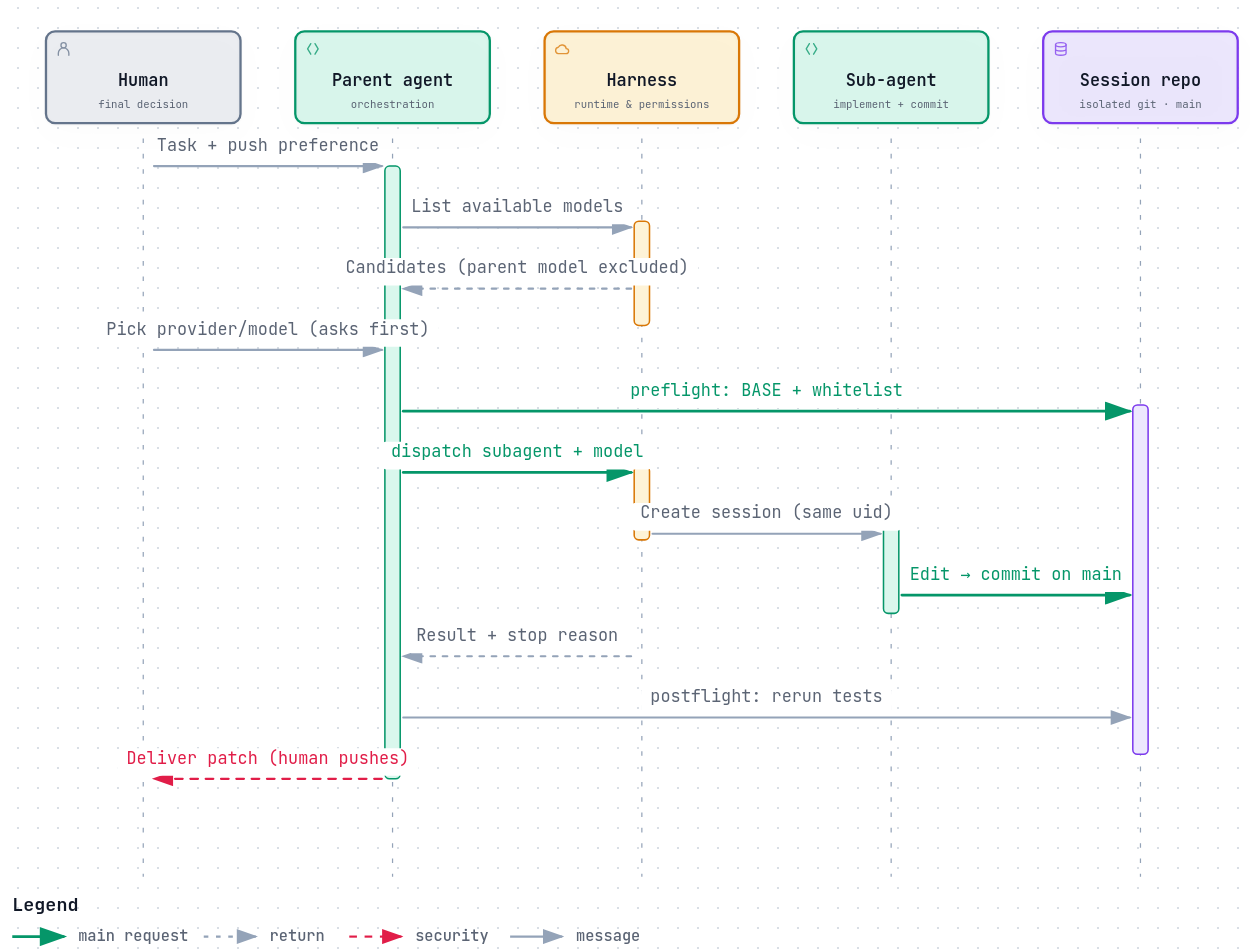
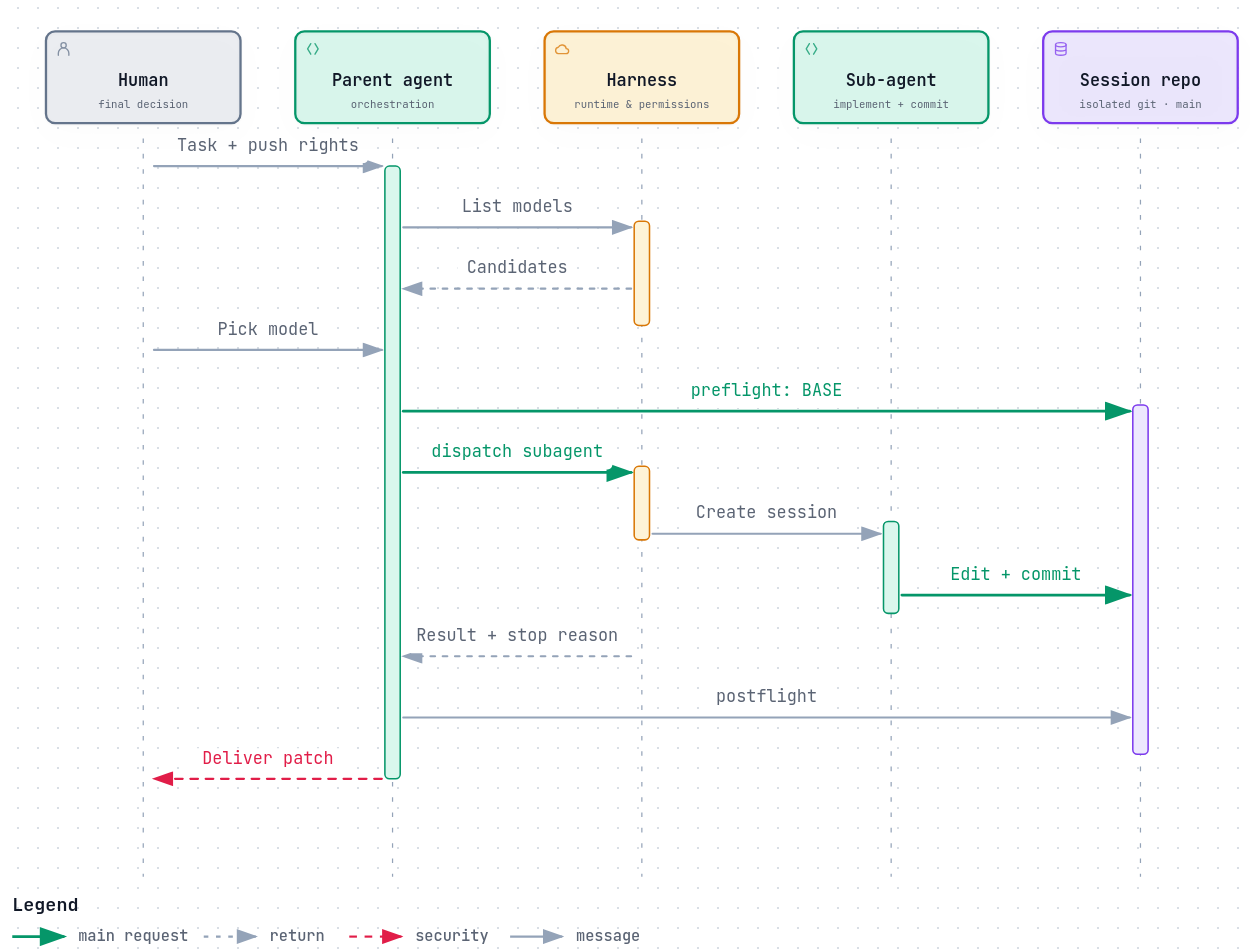
docs: shorten diagram labels so text stops covering the lifelines
Long labels were rendered centered over the arrows with a mask, which
cut through the activation bars. Trim every label to the width between
two lifelines and re-render both the PNGs and the interactive pages.

diff --git a/docs/flow-en.html b/docs/flow-en.html
@@ -5035,67 +5035,67 @@ OTHER DEALINGS IN THE FONT SOFTWARE.
         <rect x="771.5" y="316" width="10" height="228" rx="3" class="c-database" stroke-width="1"/>
 
         <!-- Messages -->
-        <g data-edge-from="human" data-edge-to="parent" data-edge-label="Task + push preference" data-edge-key="0" data-edge-id="task">
+        <g data-edge-from="human" data-edge-to="parent" data-edge-label="Task + push rights" data-edge-key="0" data-edge-id="task">
           <path data-composition-edge-from="human" data-composition-edge-to="parent" data-composition-edge-id="task" data-composition-points="132.5,160;281.25,160" d="M 132.5 160 L 281.25 160" class="a-default" stroke-width="1.4" marker-end="url(#arrowhead)"/>
         <g data-detail="context">
-          <rect x="128.275" y="140" width="157.2" height="18" rx="3" class="c-mask"/>
-          <text x="206.875" y="150" class="t-muted" font-size="11" text-anchor="middle">Task + push preference</text>
+          <rect x="141.475" y="140" width="130.8" height="18" rx="3" class="c-mask"/>
+          <text x="206.875" y="150" class="t-muted" font-size="11" text-anchor="middle">Task + push rights</text>
         </g>
         </g>
 
-        <g data-edge-from="parent" data-edge-to="harness" data-edge-label="List available models" data-edge-key="1" data-edge-id="list">
+        <g data-edge-from="parent" data-edge-to="harness" data-edge-label="List models" data-edge-key="1" data-edge-id="list">
           <path data-composition-edge-from="parent" data-composition-edge-to="harness" data-composition-edge-id="list" data-composition-points="295.25,200;444,200" d="M 295.25 200 L 444 200" class="a-default" stroke-width="1.4" marker-end="url(#arrowhead)"/>
         <g data-detail="context">
-          <rect x="294.325" y="180" width="150.6" height="18" rx="3" class="c-mask"/>
-          <text x="369.625" y="190" class="t-muted" font-size="11" text-anchor="middle">List available models</text>
+          <rect x="327.325" y="180" width="84.6" height="18" rx="3" class="c-mask"/>
+          <text x="369.625" y="190" class="t-muted" font-size="11" text-anchor="middle">List models</text>
         </g>
         </g>
 
-        <g data-edge-from="harness" data-edge-to="parent" data-edge-label="Candidates (parent model excluded)" data-edge-key="2" data-edge-id="models">
+        <g data-edge-from="harness" data-edge-to="parent" data-edge-label="Candidates" data-edge-key="2" data-edge-id="models">
           <path data-composition-edge-from="harness" data-composition-edge-to="parent" data-composition-edge-id="models" data-composition-points="444,240;295.25,240" d="M 444 240 L 295.25 240" class="a-default" stroke-width="1.4" stroke-dasharray="3,5" marker-end="url(#arrowhead)"/>
         <g data-detail="context">
-          <rect x="251.425" y="220" width="236.39999999999998" height="18" rx="3" class="c-mask"/>
-          <text x="369.625" y="230" class="t-muted" font-size="11" text-anchor="middle">Candidates (parent model excluded)</text>
+          <rect x="330.625" y="220" width="78" height="18" rx="3" class="c-mask"/>
+          <text x="369.625" y="230" class="t-muted" font-size="11" text-anchor="middle">Candidates</text>
         </g>
         </g>
 
-        <g data-edge-from="human" data-edge-to="parent" data-edge-label="Pick provider/model (asks first)" data-edge-key="3" data-edge-id="pick">
+        <g data-edge-from="human" data-edge-to="parent" data-edge-label="Pick model" data-edge-key="3" data-edge-id="pick">
           <path data-composition-edge-from="human" data-composition-edge-to="parent" data-composition-edge-id="pick" data-composition-points="132.5,280;281.25,280" d="M 132.5 280 L 281.25 280" class="a-default" stroke-width="1.4" marker-end="url(#arrowhead)"/>
         <g data-detail="context">
-          <rect x="95.275" y="260" width="223.2" height="18" rx="3" class="c-mask"/>
-          <text x="206.875" y="270" class="t-muted" font-size="11" text-anchor="middle">Pick provider/model (asks first)</text>
+          <rect x="167.875" y="260" width="78" height="18" rx="3" class="c-mask"/>
+          <text x="206.875" y="270" class="t-muted" font-size="11" text-anchor="middle">Pick model</text>
         </g>
         </g>
 
-        <g data-edge-from="parent" data-edge-to="repo" data-edge-label="preflight: BASE + whitelist" data-edge-key="4" data-edge-id="preflight">
+        <g data-edge-from="parent" data-edge-to="repo" data-edge-label="preflight: BASE" data-edge-key="4" data-edge-id="preflight">
           <path data-composition-edge-from="parent" data-composition-edge-to="repo" data-composition-edge-id="preflight" data-composition-points="295.25,320;769.5,320" d="M 295.25 320 L 769.5 320" class="a-emphasis" stroke-width="1.8" marker-end="url(#arrowhead-emphasis)"/>
         <g data-detail="context">
-          <rect x="437.275" y="300" width="190.2" height="18" rx="3" class="c-mask"/>
-          <text x="532.375" y="310" class="t-edge-emphasis" font-size="11" text-anchor="middle">preflight: BASE + whitelist</text>
+          <rect x="476.875" y="300" width="111" height="18" rx="3" class="c-mask"/>
+          <text x="532.375" y="310" class="t-edge-emphasis" font-size="11" text-anchor="middle">preflight: BASE</text>
         </g>
         </g>
 
-        <g data-edge-from="parent" data-edge-to="harness" data-edge-label="dispatch subagent + model" data-edge-key="5" data-edge-id="dispatch">
+        <g data-edge-from="parent" data-edge-to="harness" data-edge-label="dispatch subagent" data-edge-key="5" data-edge-id="dispatch">
           <path data-composition-edge-from="parent" data-composition-edge-to="harness" data-composition-edge-id="dispatch" data-composition-points="295.25,360;444,360" d="M 295.25 360 L 444 360" class="a-emphasis" stroke-width="1.8" marker-end="url(#arrowhead-emphasis)"/>
         <g data-detail="context">
-          <rect x="281.125" y="340" width="177" height="18" rx="3" class="c-mask"/>
-          <text x="369.625" y="350" class="t-edge-emphasis" font-size="11" text-anchor="middle">dispatch subagent + model</text>
+          <rect x="307.525" y="340" width="124.19999999999999" height="18" rx="3" class="c-mask"/>
+          <text x="369.625" y="350" class="t-edge-emphasis" font-size="11" text-anchor="middle">dispatch subagent</text>
         </g>
         </g>
 
-        <g data-edge-from="harness" data-edge-to="child" data-edge-label="Create session (same uid)" data-edge-key="6" data-edge-id="session">
+        <g data-edge-from="harness" data-edge-to="child" data-edge-label="Create session" data-edge-key="6" data-edge-id="session">
           <path data-composition-edge-from="harness" data-composition-edge-to="child" data-composition-edge-id="session" data-composition-points="458,400;606.75,400" d="M 458 400 L 606.75 400" class="a-default" stroke-width="1.4" marker-end="url(#arrowhead)"/>
         <g data-detail="context">
-          <rect x="443.875" y="380" width="177" height="18" rx="3" class="c-mask"/>
-          <text x="532.375" y="390" class="t-muted" font-size="11" text-anchor="middle">Create session (same uid)</text>
+          <rect x="480.175" y="380" width="104.39999999999999" height="18" rx="3" class="c-mask"/>
+          <text x="532.375" y="390" class="t-muted" font-size="11" text-anchor="middle">Create session</text>
         </g>
         </g>
 
-        <g data-edge-from="child" data-edge-to="repo" data-edge-label="Edit → commit on main" data-edge-key="7" data-edge-id="commit">
+        <g data-edge-from="child" data-edge-to="repo" data-edge-label="Edit + commit" data-edge-key="7" data-edge-id="commit">
           <path data-composition-edge-from="child" data-composition-edge-to="repo" data-composition-edge-id="commit" data-composition-points="620.75,440;769.5,440" d="M 620.75 440 L 769.5 440" class="a-emphasis" stroke-width="1.8" marker-end="url(#arrowhead-emphasis)"/>
         <g data-detail="context">
-          <rect x="619.825" y="420" width="150.6" height="18" rx="3" class="c-mask"/>
-          <text x="695.125" y="430" class="t-edge-emphasis" font-size="11" text-anchor="middle">Edit → commit on main</text>
+          <rect x="646.225" y="420" width="97.8" height="18" rx="3" class="c-mask"/>
+          <text x="695.125" y="430" class="t-edge-emphasis" font-size="11" text-anchor="middle">Edit + commit</text>
         </g>
         </g>
 
@@ -5107,19 +5107,19 @@ OTHER DEALINGS IN THE FONT SOFTWARE.
         </g>
         </g>
 
-        <g data-edge-from="parent" data-edge-to="repo" data-edge-label="postflight: rerun tests" data-edge-key="9" data-edge-id="postflight">
+        <g data-edge-from="parent" data-edge-to="repo" data-edge-label="postflight" data-edge-key="9" data-edge-id="postflight">
           <path data-composition-edge-from="parent" data-composition-edge-to="repo" data-composition-edge-id="postflight" data-composition-points="295.25,520;769.5,520" d="M 295.25 520 L 769.5 520" class="a-default" stroke-width="1.4" marker-end="url(#arrowhead)"/>
         <g data-detail="context">
-          <rect x="450.475" y="500" width="163.79999999999998" height="18" rx="3" class="c-mask"/>
-          <text x="532.375" y="510" class="t-muted" font-size="11" text-anchor="middle">postflight: rerun tests</text>
+          <rect x="493.375" y="500" width="78" height="18" rx="3" class="c-mask"/>
+          <text x="532.375" y="510" class="t-muted" font-size="11" text-anchor="middle">postflight</text>
         </g>
         </g>
 
-        <g data-edge-from="parent" data-edge-to="human" data-edge-label="Deliver patch (human pushes)" data-edge-key="10" data-edge-id="deliver">
+        <g data-edge-from="parent" data-edge-to="human" data-edge-label="Deliver patch" data-edge-key="10" data-edge-id="deliver">
           <path data-composition-edge-from="parent" data-composition-edge-to="human" data-composition-edge-id="deliver" data-composition-points="281.25,560;132.5,560" d="M 281.25 560 L 132.5 560" class="a-security" stroke-width="1.4" marker-end="url(#arrowhead-security)"/>
         <g data-detail="context">
-          <rect x="108.47500000000001" y="540" width="196.79999999999998" height="18" rx="3" class="c-mask"/>
-          <text x="206.875" y="550" class="t-edge-security" font-size="11" text-anchor="middle">Deliver patch (human pushes)</text>
+          <rect x="157.975" y="540" width="97.8" height="18" rx="3" class="c-mask"/>
+          <text x="206.875" y="550" class="t-edge-security" font-size="11" text-anchor="middle">Deliver patch</text>
         </g>
         </g>
 

diff --git a/docs/flow-zh.html b/docs/flow-zh.html
@@ -5035,11 +5035,11 @@ OTHER DEALINGS IN THE FONT SOFTWARE.
         <rect x="771.5" y="316" width="10" height="228" rx="3" class="c-database" stroke-width="1"/>
 
         <!-- Messages -->
-        <g data-edge-from="human" data-edge-to="parent" data-edge-label="提任务 + 允许 push？" data-edge-key="0" data-edge-id="task">
+        <g data-edge-from="human" data-edge-to="parent" data-edge-label="提任务 + 权限" data-edge-key="0" data-edge-id="task">
           <path data-composition-edge-from="human" data-composition-edge-to="parent" data-composition-edge-id="task" data-composition-points="132.5,160;281.25,160" d="M 132.5 160 L 281.25 160" class="a-default" stroke-width="1.4" marker-end="url(#arrowhead)"/>
         <g data-detail="context">
-          <rect x="134.875" y="140" width="144" height="18" rx="3" class="c-mask"/>
-          <text x="206.875" y="150" class="t-muted" font-size="11" text-anchor="middle">提任务 + 允许 push？</text>
+          <rect x="157.975" y="140" width="97.8" height="18" rx="3" class="c-mask"/>
+          <text x="206.875" y="150" class="t-muted" font-size="11" text-anchor="middle">提任务 + 权限</text>
         </g>
         </g>
 
@@ -5051,51 +5051,51 @@ OTHER DEALINGS IN THE FONT SOFTWARE.
         </g>
         </g>
 
-        <g data-edge-from="harness" data-edge-to="parent" data-edge-label="候选模型（不含父模型）" data-edge-key="2" data-edge-id="models">
+        <g data-edge-from="harness" data-edge-to="parent" data-edge-label="候选模型" data-edge-key="2" data-edge-id="models">
           <path data-composition-edge-from="harness" data-composition-edge-to="parent" data-composition-edge-id="models" data-composition-points="444,240;295.25,240" d="M 444 240 L 295.25 240" class="a-default" stroke-width="1.4" stroke-dasharray="3,5" marker-end="url(#arrowhead)"/>
         <g data-detail="context">
-          <rect x="291.025" y="220" width="157.2" height="18" rx="3" class="c-mask"/>
-          <text x="369.625" y="230" class="t-muted" font-size="11" text-anchor="middle">候选模型（不含父模型）</text>
+          <rect x="337.225" y="220" width="64.8" height="18" rx="3" class="c-mask"/>
+          <text x="369.625" y="230" class="t-muted" font-size="11" text-anchor="middle">候选模型</text>
         </g>
         </g>
 
-        <g data-edge-from="human" data-edge-to="parent" data-edge-label="选定 provider/model（首次先问）" data-edge-key="3" data-edge-id="pick">
+        <g data-edge-from="human" data-edge-to="parent" data-edge-label="选定模型（先问）" data-edge-key="3" data-edge-id="pick">
           <path data-composition-edge-from="human" data-composition-edge-to="parent" data-composition-edge-id="pick" data-composition-points="132.5,280;281.25,280" d="M 132.5 280 L 281.25 280" class="a-default" stroke-width="1.4" marker-end="url(#arrowhead)"/>
         <g data-detail="context">
-          <rect x="98.575" y="260" width="216.6" height="18" rx="3" class="c-mask"/>
-          <text x="206.875" y="270" class="t-muted" font-size="11" text-anchor="middle">选定 provider/model（首次先问）</text>
+          <rect x="148.075" y="260" width="117.6" height="18" rx="3" class="c-mask"/>
+          <text x="206.875" y="270" class="t-muted" font-size="11" text-anchor="middle">选定模型（先问）</text>
         </g>
         </g>
 
-        <g data-edge-from="parent" data-edge-to="repo" data-edge-label="preflight：BASE + 白名单" data-edge-key="4" data-edge-id="preflight">
+        <g data-edge-from="parent" data-edge-to="repo" data-edge-label="preflight：BASE" data-edge-key="4" data-edge-id="preflight">
           <path data-composition-edge-from="parent" data-composition-edge-to="repo" data-composition-edge-id="preflight" data-composition-points="295.25,320;769.5,320" d="M 295.25 320 L 769.5 320" class="a-emphasis" stroke-width="1.8" marker-end="url(#arrowhead-emphasis)"/>
         <g data-detail="context">
-          <rect x="447.175" y="300" width="170.39999999999998" height="18" rx="3" class="c-mask"/>
-          <text x="532.375" y="310" class="t-edge-emphasis" font-size="11" text-anchor="middle">preflight：BASE + 白名单</text>
+          <rect x="476.875" y="300" width="111" height="18" rx="3" class="c-mask"/>
+          <text x="532.375" y="310" class="t-edge-emphasis" font-size="11" text-anchor="middle">preflight：BASE</text>
         </g>
         </g>
 
-        <g data-edge-from="parent" data-edge-to="harness" data-edge-label="派发 subagent + model" data-edge-key="5" data-edge-id="dispatch">
+        <g data-edge-from="parent" data-edge-to="harness" data-edge-label="派发 subagent" data-edge-key="5" data-edge-id="dispatch">
           <path data-composition-edge-from="parent" data-composition-edge-to="harness" data-composition-edge-id="dispatch" data-composition-points="295.25,360;444,360" d="M 295.25 360 L 444 360" class="a-emphasis" stroke-width="1.8" marker-end="url(#arrowhead-emphasis)"/>
         <g data-detail="context">
-          <rect x="294.325" y="340" width="150.6" height="18" rx="3" class="c-mask"/>
-          <text x="369.625" y="350" class="t-edge-emphasis" font-size="11" text-anchor="middle">派发 subagent + model</text>
+          <rect x="320.725" y="340" width="97.8" height="18" rx="3" class="c-mask"/>
+          <text x="369.625" y="350" class="t-edge-emphasis" font-size="11" text-anchor="middle">派发 subagent</text>
         </g>
         </g>
 
-        <g data-edge-from="harness" data-edge-to="child" data-edge-label="创建子会话（同 uid）" data-edge-key="6" data-edge-id="session">
+        <g data-edge-from="harness" data-edge-to="child" data-edge-label="创建子会话" data-edge-key="6" data-edge-id="session">
           <path data-composition-edge-from="harness" data-composition-edge-to="child" data-composition-edge-id="session" data-composition-points="458,400;606.75,400" d="M 458 400 L 606.75 400" class="a-default" stroke-width="1.4" marker-end="url(#arrowhead)"/>
         <g data-detail="context">
-          <rect x="460.375" y="380" width="144" height="18" rx="3" class="c-mask"/>
-          <text x="532.375" y="390" class="t-muted" font-size="11" text-anchor="middle">创建子会话（同 uid）</text>
+          <rect x="493.375" y="380" width="78" height="18" rx="3" class="c-mask"/>
+          <text x="532.375" y="390" class="t-muted" font-size="11" text-anchor="middle">创建子会话</text>
         </g>
         </g>
 
-        <g data-edge-from="child" data-edge-to="repo" data-edge-label="改码 → main 提交" data-edge-key="7" data-edge-id="commit">
+        <g data-edge-from="child" data-edge-to="repo" data-edge-label="改码 → 提交" data-edge-key="7" data-edge-id="commit">
           <path data-composition-edge-from="child" data-composition-edge-to="repo" data-composition-edge-id="commit" data-composition-points="620.75,440;769.5,440" d="M 620.75 440 L 769.5 440" class="a-emphasis" stroke-width="1.8" marker-end="url(#arrowhead-emphasis)"/>
         <g data-detail="context">
-          <rect x="636.325" y="420" width="117.6" height="18" rx="3" class="c-mask"/>
-          <text x="695.125" y="430" class="t-edge-emphasis" font-size="11" text-anchor="middle">改码 → main 提交</text>
+          <rect x="652.825" y="420" width="84.6" height="18" rx="3" class="c-mask"/>
+          <text x="695.125" y="430" class="t-edge-emphasis" font-size="11" text-anchor="middle">改码 → 提交</text>
         </g>
         </g>
 
@@ -5107,19 +5107,19 @@ OTHER DEALINGS IN THE FONT SOFTWARE.
         </g>
         </g>
 
-        <g data-edge-from="parent" data-edge-to="repo" data-edge-label="postflight 重跑测试" data-edge-key="9" data-edge-id="postflight">
+        <g data-edge-from="parent" data-edge-to="repo" data-edge-label="postflight 验收" data-edge-key="9" data-edge-id="postflight">
           <path data-composition-edge-from="parent" data-composition-edge-to="repo" data-composition-edge-id="postflight" data-composition-points="295.25,520;769.5,520" d="M 295.25 520 L 769.5 520" class="a-default" stroke-width="1.4" marker-end="url(#arrowhead)"/>
         <g data-detail="context">
-          <rect x="463.675" y="500" width="137.39999999999998" height="18" rx="3" class="c-mask"/>
-          <text x="532.375" y="510" class="t-muted" font-size="11" text-anchor="middle">postflight 重跑测试</text>
+          <rect x="476.875" y="500" width="111" height="18" rx="3" class="c-mask"/>
+          <text x="532.375" y="510" class="t-muted" font-size="11" text-anchor="middle">postflight 验收</text>
         </g>
         </g>
 
-        <g data-edge-from="parent" data-edge-to="human" data-edge-label="交付 patch（人决定 push）" data-edge-key="10" data-edge-id="deliver">
+        <g data-edge-from="parent" data-edge-to="human" data-edge-label="交付 patch" data-edge-key="10" data-edge-id="deliver">
           <path data-composition-edge-from="parent" data-composition-edge-to="human" data-composition-edge-id="deliver" data-composition-points="281.25,560;132.5,560" d="M 281.25 560 L 132.5 560" class="a-security" stroke-width="1.4" marker-end="url(#arrowhead-security)"/>
         <g data-detail="context">
-          <rect x="118.375" y="540" width="177" height="18" rx="3" class="c-mask"/>
-          <text x="206.875" y="550" class="t-edge-security" font-size="11" text-anchor="middle">交付 patch（人决定 push）</text>
+          <rect x="167.875" y="540" width="78" height="18" rx="3" class="c-mask"/>
+          <text x="206.875" y="550" class="t-edge-security" font-size="11" text-anchor="middle">交付 patch</text>
         </g>
         </g>
 
